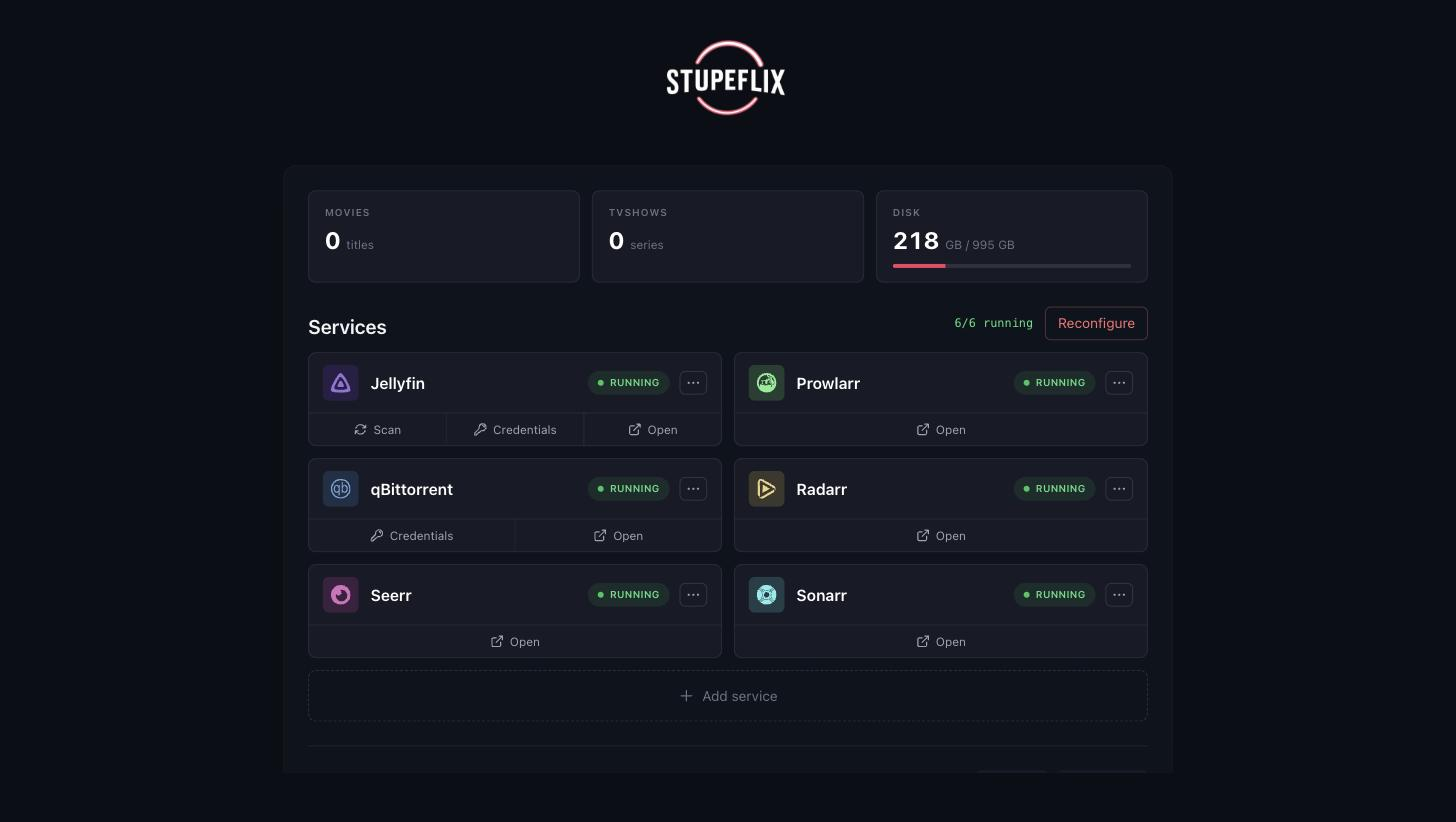
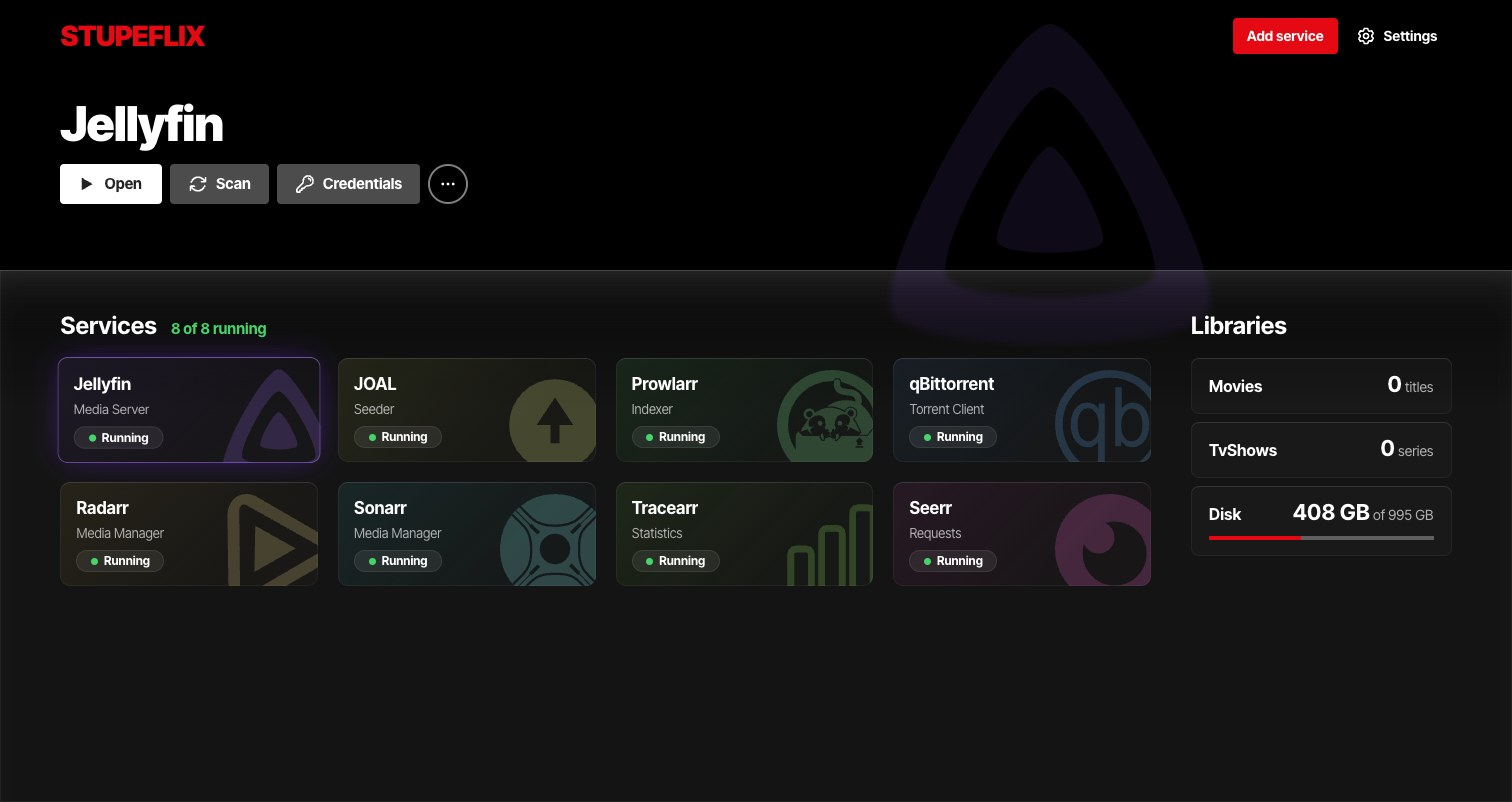
docs: retake the README screenshots in the new design

diff --git a/README.md b/README.md
@@ -35,11 +35,6 @@ next to the others: see [writing a template](docs/templates.md).
 | ![Dashboard](docs/screenshots/dashboard.jpg) | ![Add a service](docs/screenshots/add-service.jpg) |
 | The stack once it is up, with what each service can do from here | Its own notes and credentials, read straight from the template |
 
-| Stacks | Services |
-|---|---|
-| ![Stacks](docs/screenshots/wizard-stacks.jpg) | ![Services](docs/screenshots/wizard-services.jpg) |
-| A set that works together, or pick services one by one | What a service needs blocks, what it merely likes only warns |
-
 ## Getting started
 
 ### Prerequisites
